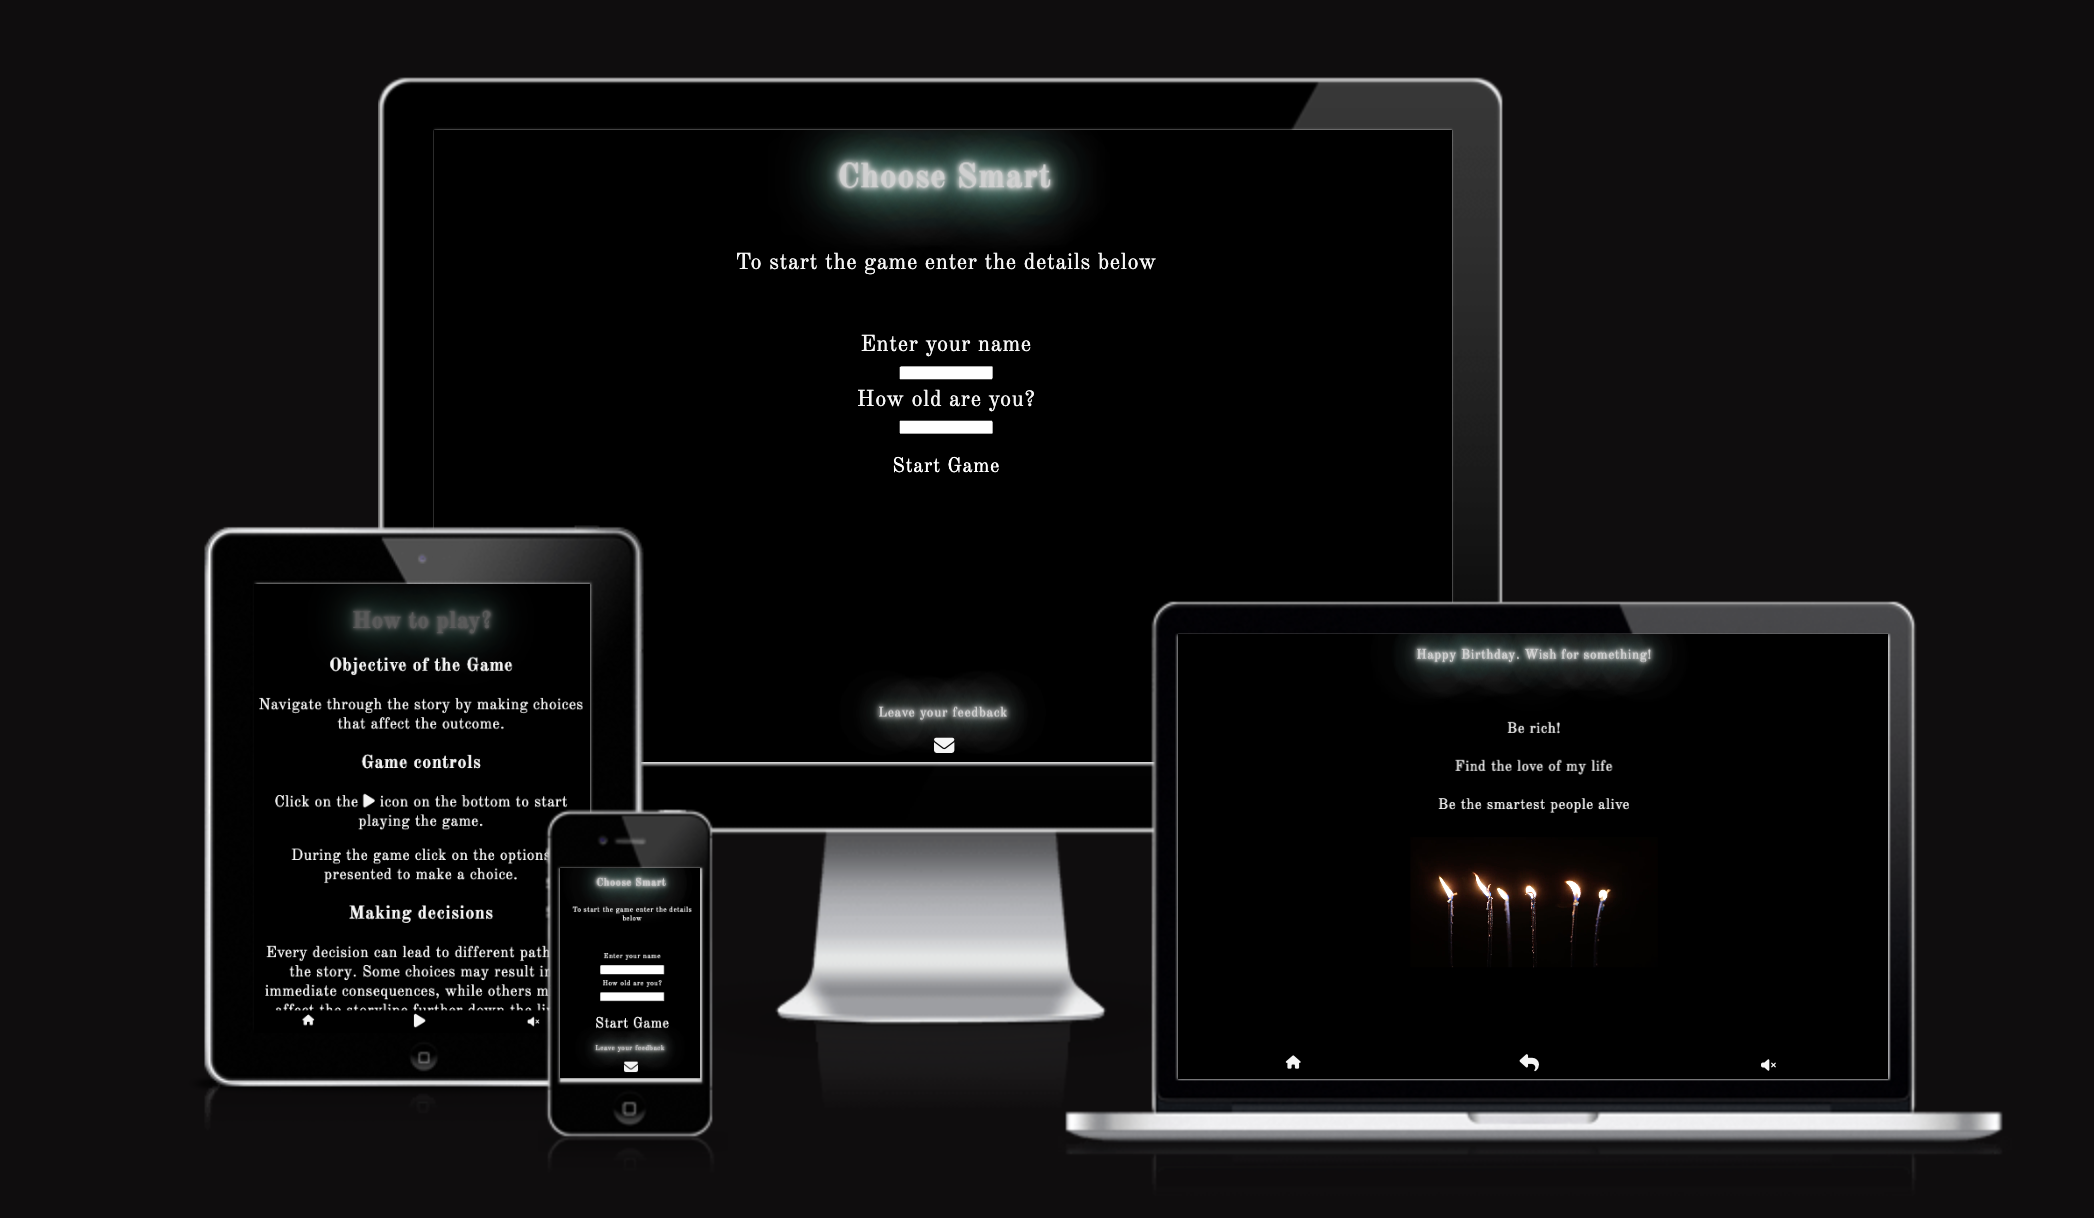
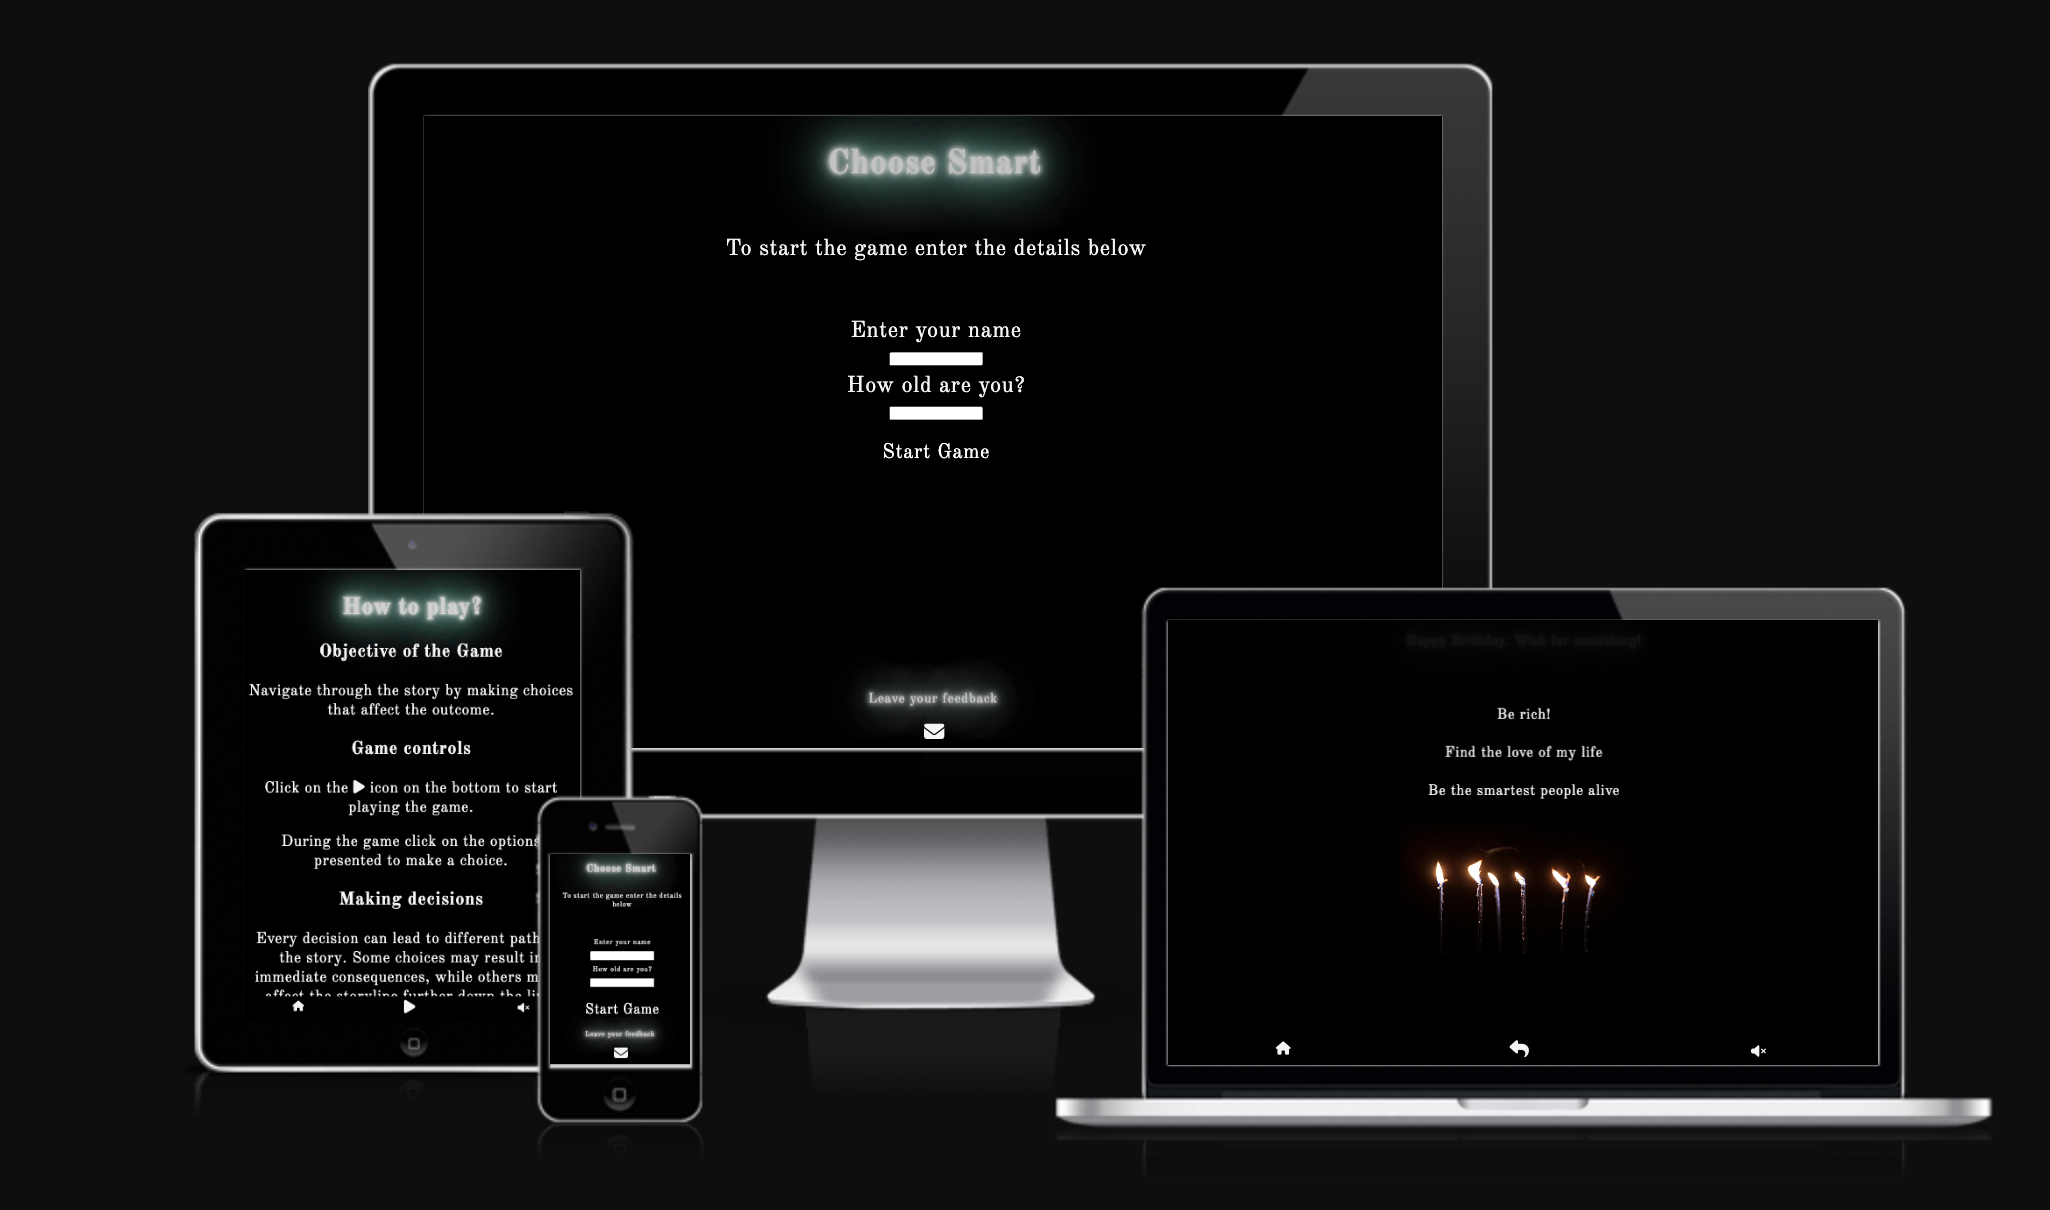
Add preload attr to video

Changed region(s): [[0.0937, 0.0306, 0.9678, 0.9479], [0.4059, 0.2752, 0.4995, 0.3975], [0.6868, 0.7033, 0.7805, 0.7645]]

diff --git a/game.html b/game.html
@@ -13,14 +13,15 @@
     <link rel="icon" type="image/png" sizes="16x16" href="favicon_io/favicon-16x16.png">
     <!--Stylesheet-->
     <link rel="stylesheet" href="assets/css/style.css">
-    <!-- Preload the font -->
-    <link rel="preload" href="https://fonts.googleapis.com/css2?family=Old+Standard+TT&display=swap" as="style">
-    <link href="https://fonts.googleapis.com/css2?family=Old+Standard+TT&display=swap" rel="stylesheet">
     <title>Choose Smart</title>
 </head>
 
 <body id="game-body">
     <!--Header-->
+    <!-- Preload the font -->
+    <div class="font_preload" style="opacity: 0">
+        <span style="font-family: 'Old Standard TT', sans-serif"></span>
+    </div>
     <header>
         <h1 class="hidden-element">Enjoy the game</h1>
     </header>
@@ -51,10 +52,10 @@
         </div>
         <!--Div for loop back to the start at specific scenarios-->
         <div id="loop"></div>
-        <video src='assets/media/video/birthday.mp4' id='video' loading='lazy' autoplay loop muted playsinline>
-            <p>Your browser doesn't support HTML5 video.</p>
-            <a href='pixabay.com'>Link to the video.</a>
-        </video>
+        <video preload="auto" autoplay loop muted playsinline class="video" id="video">
+            <source src="assets/media/video/birthday.mp4" type="video/mp4" >
+            Your browser does not support the video tag.
+          </video>
 
     </main>
     <!--Footer-->

diff --git a/index.html b/index.html
@@ -13,14 +13,15 @@
     <link rel="icon" type="image/png" sizes="16x16" href="favicon_io/favicon-16x16.png">
     <!--Stylesheet-->
     <link rel="stylesheet" href="assets/css/style.css">
-    <!-- Preload the font -->
-    <link rel="preload" href="https://fonts.googleapis.com/css2?family=Old+Standard+TT&display=swap" as="style">
-    <link href="https://fonts.googleapis.com/css2?family=Old+Standard+TT&display=swap" rel="stylesheet">
     <title>Choose Smart</title>
 </head>
 
 <body>
     <!--Header-->
+    <!-- Preload the font -->
+    <div class="font_preload" style="opacity: 0">
+        <span style="font-family: 'Old Standard TT', sans-serif"></span>
+    </div>
     <header class="centered message">
         <h2>Choose Smart</h2>
     </header>

diff --git a/assets/css/style.css b/assets/css/style.css
@@ -230,7 +230,7 @@ footer {
 }
 
 /*Style for the video*/
-#video {
+.video {
     width: 97.5%;
     box-shadow: 0 4px 8px rgba(0, 0, 0, 0.2);
     background-color: #000000;
@@ -287,13 +287,14 @@ footer {
         font-size: larger;
     }
 
-    #video {
+    .video {
         max-width: 65%;
     }
 }
+
 /* Media query: laptop (1024px and up)*/
 @media screen and (min-width:1024px) {
-    #video {
+    .video {
         max-width: 35%;
     }
 }

diff --git a/README.md b/README.md
@@ -266,15 +266,21 @@ Clicking on the email logo opens the email client. This functionality works in a
 
 #### Instructions Page
 
-I tested all three icons in the footer.
-The home icon took me back to the Home page.
-The second icon took me to the Game page.
-The mute/unmute button worked as expected.
-
+I tested all three icons in the footer:  
+  - The home icon took me back to the Home page.
+  - The second icon took me to the Game page.
+  - The mute/unmute button worked as expected.
 
 #### Game Page
 
+I clicked through every choice with the audio on, and the specific video and audio played after each selection. In scenarios where the [blinking green neon text](/docs/webpage-ss/loop-text.png) appeared, clicking on it took me back to the first choice. I also tested all three icons in the footer:
+  - The home icon correctly took me back to the Home page.
+  - The second icon successfully restarted the game.
+  - The mute/unmute button functioned as expected.
+
 #### 404 Error page
+
+I clicked the 'Go Home' button, and it correctly took me back to the Home page.
 
 ## Credits 
 
@@ -285,8 +291,10 @@ All screenshots used in this README file were taken by myself.
 
 ### Content
 
-All content for the website was written by myself. 
+All content for the website was written by me. The decision tree was originally created in a Word document and later transformed into a JavaScript object using [ChatGPT](https://chatgpt.com/).
 The blinking text effect code in CSS was found at [Stack Overflow](https://stackoverflow.com/questions/16344354/how-to-make-blinking-flashing-text-with-css-3.).<br>
+I referred to the [Stack Overflow](https://stackoverflow.com/questions/1330825/preloading-font-face-fonts) article to implement font preloading.<br>
+I referred to the [Stack Overflow](https://stackoverflow.com/questions/39360088/does-the-metadata-preload-attribute-in-html5-load-the-entire-video) to improve the game page's performance by preloading the videos.
 The neon effect code was found at [CSS-tricks.com](https://css-tricks.com/how-to-create-neon-text-with-css/).
 
 ### Acknowledgements
